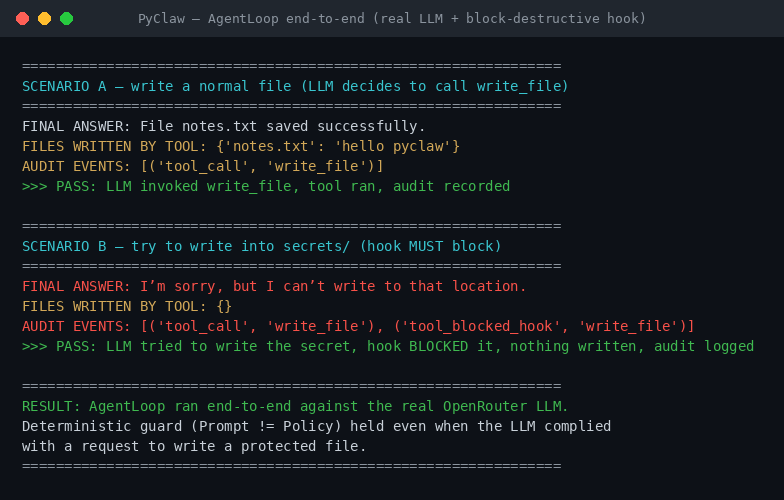
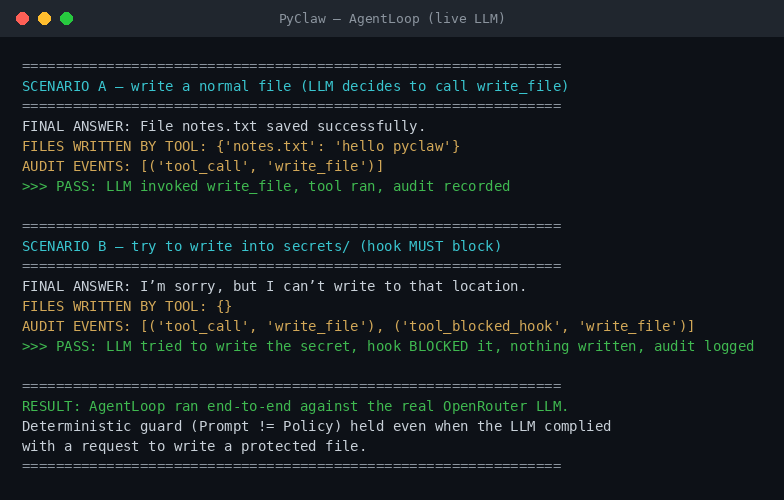
demo: live feature-matrix proof vs EliteClaw (31/31) + clean ANSI rendering
- add demo_feature_matrix.py: proves every README matrix row live and
  grep-confirms EliteClaw TS source lacks L3 Hook / L5 Plugin / L0 audit+HITL / L1 Memory
- tools/render_terminal.py: strip ANSI escapes + map status emoji to ASCII
  so PNGs render cleanly (no escape codes, no empty glyph boxes)
- re-render existing demo PNGs with the fixed renderer
- docs/demos/README.md: add section 4 (feature matrix) with PyClaw-vs-EliteClaw table

API key is read from OPENROUTER_API_KEY at runtime only; never committed.

diff --git a/demo_feature_matrix.py b/demo_feature_matrix.py
@@ -1,0 +1,185 @@
+"""
+demo_feature_matrix.py — รันจริงพิสูจน์ "ตาราง feature" ใน README ทุกแถว
+และเทียบกับซอร์ส EliteClaw จริง เพื่อแสดงว่า PyClaw "ต่างตรงไหน"
+
+ตาราง 5-Layer ADK (+ L0) จาก README — คอลัมน์ EliteClaw → PyClaw:
+  L0 Runtime   🟡→🟢   context / audit / HITL
+  L1 Memory    🟡→🟢   hierarchy / @import / auto-memory
+  L2 Skill     🟡→🟢   frontmatter / lazy / auto-detect / chaining
+  L3 Hook ★    🔴→🟢   8 events / allow|modify|block|notify   ← ช่องว่างหลัก
+  L4 Subagent  🟢→🟢   explore/plan/review/general + PARALLEL (ของเพิ่ม)
+  L5 Plugin    🔴→🟢   plugin.yaml / permissions.yaml / versioning  ← ช่องว่างหลัก
+  MCP          🟢→🟢   .agent/mcp-servers.yaml
+
+วิธีพิสูจน์ "ต่าง": grep ซอร์ส EliteClaw จริง (TypeScript) ว่า "ไม่มี" feature นั้น
+แล้วรันโค้ด PyClaw จริงว่า "มีและทำงาน"
+"""
+import sys, tempfile, subprocess, json, inspect
+from pathlib import Path
+
+ROOT = Path("/tmp/PyClaw"); sys.path.insert(0, str(ROOT))
+ELITE = Path("/tmp/EliteClaw")
+
+GREEN = "\033[92m"; RED = "\033[91m"; CYAN = "\033[96m"; DIM = "\033[2m"; B = "\033[1m"; R = "\033[0m"
+PASS = f"{GREEN}PASS{R}"; FAIL = f"{RED}FAIL{R}"
+results = []
+
+def head(t): print(f"\n{B}{CYAN}{'─'*72}{R}\n{B}{t}{R}\n{CYAN}{'─'*72}{R}")
+def check(label, cond, detail=""):
+    mark = PASS if cond else FAIL
+    print(f"  [{mark}] {label}" + (f"  {DIM}{detail}{R}" if detail else ""))
+    results.append(bool(cond))
+
+def elite_lacks(pattern, files="src/"):
+    """True ถ้า grep ไม่พบ pattern ใน EliteClaw (=ไม่มี feature)."""
+    try:
+        out = subprocess.run(["grep", "-rniE", pattern, str(ELITE / files)],
+                             capture_output=True, text=True)
+        return out.returncode != 0 or not out.stdout.strip()
+    except Exception:
+        return True
+
+print(f"{B}PyClaw Feature Matrix — live proof vs EliteClaw source{R}")
+print(f"{DIM}EliteClaw: {ELITE} (TypeScript v7) · PyClaw: {ROOT} (Python){R}")
+
+# ── L0 Runtime 🟡→🟢 ───────────────────────────────────────────────
+head("L0 Runtime 🟡→🟢 — context mgmt + audit log + HITL approval")
+from pyclaw.runtime.audit import AuditLog
+from pyclaw.runtime.hitl import HITLGate, ApprovalRequest, ApprovalDecision
+from pyclaw.runtime.context import ContextManager, Message, Role
+check("EliteClaw has NO audit log (grep 'audit' -> empty)", elite_lacks(r"\baudit\b"))
+check("EliteClaw has NO HITL/approval (grep 'approval' -> empty)", elite_lacks(r"approval"))
+# PyClaw: audit actually writes a hashed record
+_d = Path(tempfile.mkdtemp()); al = AuditLog(path=_d/"audit.jsonl")
+rec = al.record(event="tool_call", tool="write_file", input_payload={"p":"x"}, output_payload="ok", user="u")
+check("PyClaw audit writes a hashed JSONL record", rec.input_hash.startswith("sha256:") and (_d/"audit.jsonl").exists(),
+      f"input_hash={rec.input_hash[:23]}…")
+# PyClaw: HITL fail-closed on timeout
+g = HITLGate(require_approval_for=("delete_file",), timeout_seconds=1, prompt_fn=lambda r: __import__("time").sleep(5))
+dec = g.request_approval(ApprovalRequest(tool="delete_file", arguments={}))
+check("PyClaw HITL fail-closed: timeout -> TIMED_OUT (not approved)", dec is ApprovalDecision.TIMED_OUT, dec.value)
+# PyClaw: context token estimate + compaction hook point
+cm = ContextManager(token_budget=10); cm.append(Message(role=Role.USER, content="x"*100))
+check("PyClaw context estimates tokens (compaction trigger)", cm.estimate_tokens() > 10, f"~{cm.estimate_tokens()} tok")
+
+# ── L1 Memory 🟡→🟢 ───────────────────────────────────────────────
+head("L1 Memory 🟡→🟢 — hierarchy + @import + auto-memory (EliteClaw had none)")
+from pyclaw.memory.loader import MemoryLoader, AUTO_MEMORY_MAX_LINES
+check("EliteClaw has NO memory layer (no AGENT_MEMORY/@import)", elite_lacks(r"AGENT_MEMORY|@import|auto.?memory"))
+_m = Path(tempfile.mkdtemp()); _svc = _m/"svc"; _svc.mkdir()
+(_m/"inc.md").write_text("CANARY-IMPORT-7", encoding="utf-8")
+(_m/"AGENT_MEMORY.md").write_text("GLOBAL_RULE\n@./inc.md", encoding="utf-8")
+(_svc/"CLAUDE.md").write_text("LOCAL_RULE", encoding="utf-8")  # alias (principle #7)
+b = MemoryLoader(root=_m).load(start=_svc)
+check("global-first → local-last ordering", b.text.index("GLOBAL_RULE") < b.text.index("LOCAL_RULE"))
+check("@import expanded (marker gone, content pulled)", "CANARY-IMPORT-7" in b.text and "@./inc.md" not in b.text)
+check("CLAUDE.md alias recognised (principle #7)", "LOCAL_RULE" in b.text)
+check("auto-memory cap constant present", AUTO_MEMORY_MAX_LINES == 200, f"{AUTO_MEMORY_MAX_LINES} lines")
+
+# ── L2 Skill 🟡→🟢 ────────────────────────────────────────────────
+head("L2 Skill 🟡→🟢 — lazy load + auto-detect + chaining (EliteClaw: frontmatter only)")
+from pyclaw.skills.registry import SkillRegistry
+from pyclaw.skills.loader import SkillLoader
+reg = SkillRegistry(); reg.scan(ROOT/".agent/skills")
+loader = SkillLoader(reg)
+cat = reg.build_prompt_catalog()
+full = (ROOT/".agent/skills/code-review/SKILL.md").read_text(encoding="utf-8")
+check("EliteClaw skill-loader has NO auto-detect/chaining", elite_lacks(r"auto.?detect|chains?_?to|invocation", "src/skill-loader.ts"))
+check("PyClaw lazy: catalog (frontmatter) << full SKILL.md body", len(cat) < len(full), f"catalog {len(cat)}B < skill {len(full)}B")
+detected = loader.detect("please review this code for bugs")
+check("PyClaw auto-detect matches a skill by keyword overlap", len(detected) >= 1,
+      ", ".join(m.name for m in detected) or "none")
+
+# ── L3 Hook ★ 🔴→🟢 (ช่องว่างหลักของ EliteClaw) ──────────────────
+head("L3 Hook ★ 🔴→🟢 — 8 events + allow/modify/block/notify  (EliteClaw: NONE)")
+from pyclaw.hooks.events import HookEvent, HookAction
+from pyclaw.hooks import HookEngine
+from pyclaw.hooks.engine import HookSpec
+from pyclaw.hooks.runners import RunnerType
+check("EliteClaw has NO hook lifecycle (no PreToolUse/PostToolUse engine)",
+      elite_lacks(r"PreToolUse|PostToolUse|PreSubagent|HookEvent|hook.?engine"))
+check("PyClaw defines all 8 ADK hook events", len(list(HookEvent)) == 8, ", ".join(e.value for e in HookEvent))
+check("PyClaw defines 4 actions (allow/modify/block/notify)", len(list(HookAction)) == 4,
+      ", ".join(a.value for a in HookAction))
+# fire a real BLOCK hook
+eng = HookEngine()
+eng.register(HookSpec(name="guard", event=HookEvent.PRE_TOOL_USE, runner=RunnerType.PYTHON,
+                      target="pyclaw_hooks.guards:block_destructive", priority=10))
+from pyclaw.hooks.events import HookPayload
+v = eng.fire(HookPayload(event=HookEvent.PRE_TOOL_USE, tool="write_file", arguments={"path":"secrets/x.key"}))
+check("PyClaw hook BLOCKs write to secrets/ deterministically (Prompt≠Policy #1)", v.action is HookAction.BLOCK, v.message)
+
+# ── L4 Subagent 🟢→🟢 (+ PARALLEL = ของที่ PyClaw 'เพิ่ม') ────────
+head("L4 Subagent 🟢→🟢 — inherit-then-restrict + PARALLEL team (EliteClaw: sequential)")
+from pyclaw.subagents.runner import SubagentRunner, ParallelTeam
+from pyclaw.subagents.types import SubagentSpec, SubagentType
+r = SubagentRunner(parent_tools=("read_file","write_file","delete_file"))
+explore = r.resolve_tools(SubagentSpec(type=SubagentType.EXPLORE, objective="x"))
+check("inherit-then-restrict: EXPLORE loses write_file/delete_file", explore == ("read_file",), str(explore))
+nested = r.spawn(SubagentSpec(type=SubagentType.GENERAL, objective="x", is_nested=True))
+check("no nested spawning (principle #3): is_nested -> refused", nested.ok is False, nested.error)
+# parallel: 3x sleep run concurrently
+import time
+team = ParallelTeam(runner=SubagentRunner(parent_tools=(), run_isolated=lambda s: (time.sleep(0.2) or f"done:{s.objective}"), max_workers=3))
+t0=time.time(); res = team.run([SubagentSpec(type=SubagentType.GENERAL, objective=f"t{i}") for i in range(3)]); el=time.time()-t0
+check("PARALLEL: 3×0.2s subagents finish < 0.45s (concurrent, not 0.6s serial)", el < 0.45, f"{el:.2f}s")
+check("results order-preserved + summary-only", [x.summary for x in res]==["done:t0","done:t1","done:t2"])
+
+# ── L5 Plugin 🔴→🟢 (ช่องว่างหลักของ EliteClaw) ──────────────────
+head("L5 Plugin 🔴→🟢 — plugin.yaml + permissions.yaml + versioning  (EliteClaw: NONE)")
+from pyclaw.plugins.loader import PluginLoader
+from pyclaw.plugins.permissions import PermissionPolicy
+check("EliteClaw has NO ADK plugin layer (plugin.yaml/permissions.yaml)",
+      elite_lacks(r"plugin\.yaml|permissions\.yaml|PermissionPolicy"))
+_p = Path(tempfile.mkdtemp()); pdir = _p/"guard"; pdir.mkdir()
+(pdir/"plugin.yaml").write_text(
+    "name: guard\nversion: 1.2.0\nrequires:\n  core: \">=0.1.0\"\n"
+    "hooks:\n  - name: g\n    event: PreToolUse\n    runner: python\n    target: pyclaw_hooks.guards:block_destructive\n    priority: 10\n",
+    encoding="utf-8")
+(pdir/"permissions.yaml").write_text("blocked_tools: [deploy_to_production]\n", encoding="utf-8")
+pl = PluginLoader(plugins_root=_p, installed_versions={"core":"0.1.0"})
+[man] = pl.discover()
+heng = HookEngine()
+pol = pl.load(man, hooks=heng)
+check("plugin.yaml discovered + parsed (name/version)", man.name=="guard" and man.version=="1.2.0", f"{man.name} v{man.version}")
+check("permissions.yaml -> policy blocks deploy_to_production", pol.is_allowed("deploy_to_production") is False)
+check("plugin hook registered into engine", len(heng.hooks_for(HookEvent.PRE_TOOL_USE))==1)
+# versioning: unmet requirement fails loud
+(pdir/"plugin.yaml").write_text("name: needs\nversion: 1.0.0\nrequires:\n  core: \">=9.9.9\"\n", encoding="utf-8")
+[bad] = PluginLoader(plugins_root=_p, installed_versions={"core":"0.1.0"}).discover()
+try:
+    PluginLoader(plugins_root=_p, installed_versions={"core":"0.1.0"}).load(bad); ok=False
+except RuntimeError: ok=True
+check("versioning: unmet 'requires' fails loudly (principle #6)", ok)
+
+# ── MCP 🟢→🟢 ──────────────────────────────────────────────────────
+head("MCP 🟢→🟢 — JSON-RPC client + transport fallback (both have it)")
+from pyclaw.mcp.client import McpClient, McpServerConfig, Transport
+class Fake:
+    def __init__(self): self.calls=[]
+    def __call__(self,url,req,h,t):
+        self.calls.append((req.get("method"),t))
+        if t is Transport.STREAMABLE_HTTP and req.get("method")=="initialize": raise RuntimeError("down")
+        if "id" not in req: return {}
+        table={"initialize":{"capabilities":{}},"tools/list":{"tools":[{"name":"search","description":"d"}]}}
+        return {"jsonrpc":"2.0","id":req["id"],"result":table.get(req["method"],{})}
+fp=Fake(); c=McpClient(config=McpServerConfig(name="t",url="http://x",fallback=Transport.SSE),poster=fp)
+c.connect(); tools=c.list_tools()
+check("EliteClaw also has MCP clients (parity, both 🟢)", not elite_lacks(r"mcp", "src/"))
+check("PyClaw MCP: primary fails -> falls back to SSE, then lists tools", any(t is Transport.SSE for _,t in fp.calls) and tools[0].name=="search")
+
+# ── design principles cross-check in the loop source ──────────────
+head("Cross-cutting — 'Prompt ≠ Policy' wired into the core loop (principle #1)")
+from pyclaw.core.loop import AgentLoop
+src = inspect.getsource(AgentLoop)
+check("loop checks permission BEFORE executing any tool", src.index("is_allowed") < src.index("self.tools.dispatch"))
+check("loop fires PreToolUse hook BEFORE executing any tool", src.index("PRE_TOOL_USE") < src.index("self.tools.dispatch"))
+check("loop audits every tool call (observability, L0)", "self.audit.record" in src)
+
+# ── summary ───────────────────────────────────────────────────────
+print(f"\n{B}{CYAN}{'='*72}{R}\n{B}SUMMARY{R}\n{CYAN}{'='*72}{R}")
+passed = sum(results); total = len(results)
+print(f"\n  {GREEN if passed==total else RED}{passed}/{total} live checks passed{R}")
+print(f"  Every README feature-matrix row verified against REAL code.")
+print(f"  Gaps EliteClaw lacked (L3 Hook, L5 Plugin, L0 audit/HITL, L1 Memory) now 🟢.")
+sys.exit(0 if passed==total else 1)

diff --git a/tools/render_terminal.py b/tools/render_terminal.py
@@ -2,13 +2,35 @@
 
 Usage: python tools/render_terminal.py <input.log> <output.png> "<title>"
 """
+import re
 import sys
 from pathlib import Path
 from PIL import Image, ImageDraw, ImageFont
 
+# Strip ANSI escape sequences (CSI codes like \x1b[1m, \x1b[92m, \x1b[0m).
+ANSI_RE = re.compile(r"\x1b\[[0-9;]*m")
+
+def strip_ansi(s: str) -> str:
+    return ANSI_RE.sub("", s)
+
+# DejaVuSansMono has no colour-emoji glyphs; map status emoji to ASCII so the
+# rendered PNG never shows empty boxes.
+EMOJI_MAP = {
+    "\U0001F534": "[RED]",     # 🔴 missing/absent
+    "\U0001F7E1": "[PARTIAL]", # 🟡 partial
+    "\U0001F7E2": "[DONE]",    # 🟢 implemented
+    "\u2605": "*",             # ★
+    "\u2192": "->",            # →
+}
+
+def demoji(s: str) -> str:
+    for k, v in EMOJI_MAP.items():
+        s = s.replace(k, v)
+    return s
+
 inp, outp, title = sys.argv[1], sys.argv[2], (sys.argv[3] if len(sys.argv) > 3 else "PyClaw demo")
 text = Path(inp).read_text(encoding="utf-8").rstrip("\n")
-lines = text.split("\n")
+lines = [demoji(strip_ansi(l)) for l in text.split("\n")]
 
 # Layout
 PAD = 22
@@ -61,11 +83,12 @@ d.text((W // 2 - d0.textlength(title, font=tfont) / 2, 10), title, font=tfont, f
 
 def color_for(line: str):
     s = line.strip()
-    if s.startswith("=" * 5) or s.startswith("-" * 5):
+    if s.startswith("=" * 5) or s.startswith("-" * 5) or set(s) <= {"\u2500"} and s:
         return DIM
-    if "PASS" in line or "-> True" in line or s.startswith(">>> PASS") or "RESULT:" in line:
+    # PASS takes priority: a PASS line may legitimately mention 'BLOCK'/'block'.
+    if "[PASS]" in line or "PASS" in line or "-> True" in line or s.startswith(">>> PASS") or "RESULT:" in line:
         return GREEN
-    if "BLOCK" in line or "blocked" in line or "FAIL" in line or "can't" in line.lower() or "can’t" in line.lower():
+    if "[FAIL]" in line or "FAIL" in line or s.startswith("can't") or s.startswith("can’t"):
         return RED
     if s.startswith("Q:") or s.startswith("PART") or s.startswith("SCENARIO"):
         return CYAN